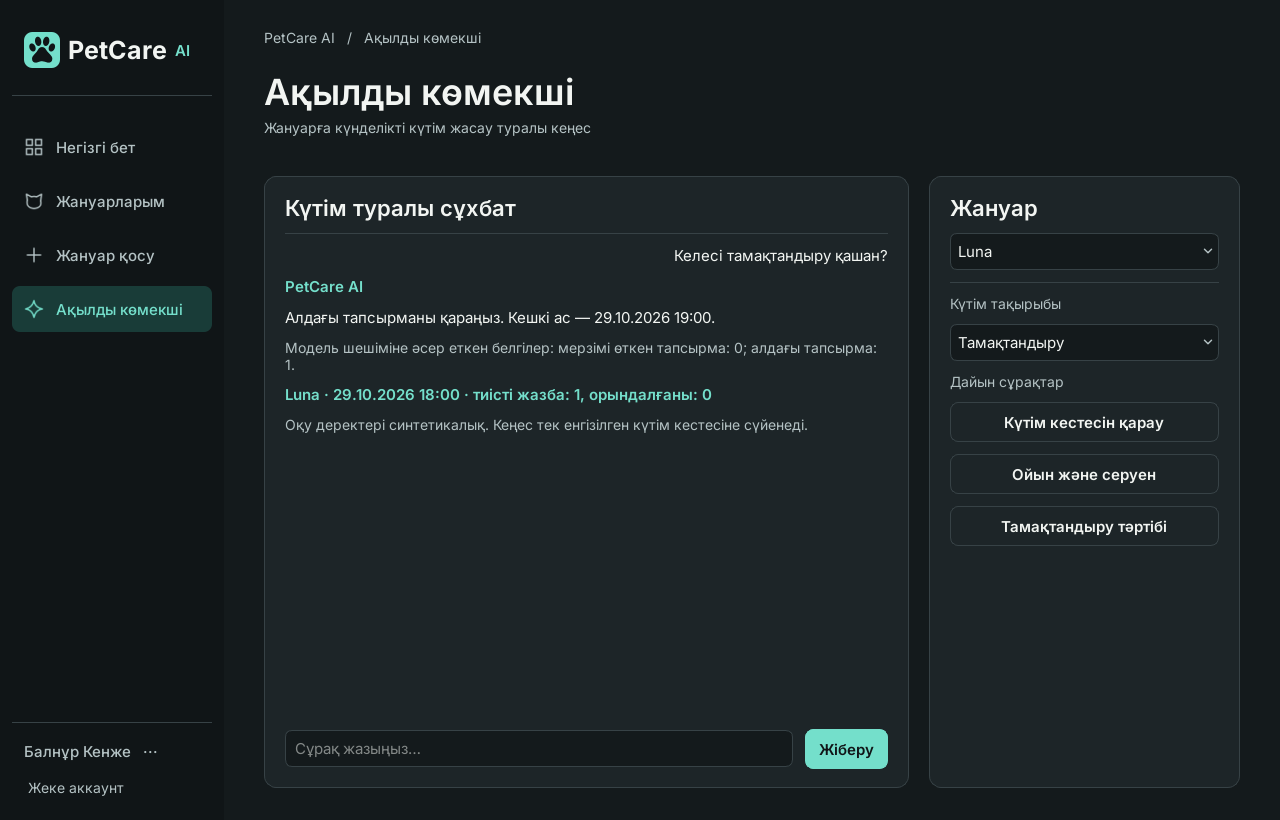
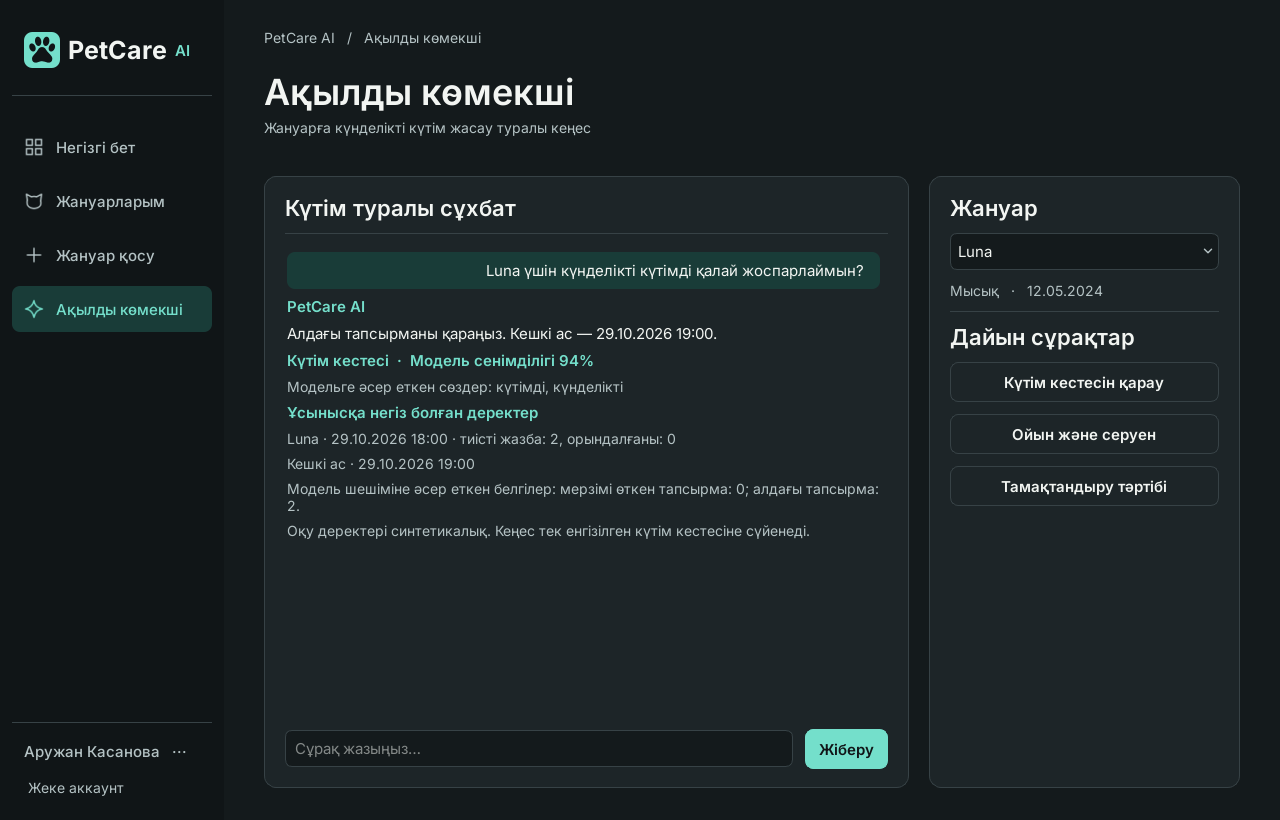
Show the five desktop screens and live two-model response

diff --git a/docs/README.md b/docs/README.md
@@ -1,1 +1,13 @@
-Screenshots of the running PySide6 desktop application at 1280 × 820: [Dashboard](home.png) and [Care adviser](adviser.png).
+# PetCare AI экрандары
+
+Суреттер Windows-тағы жұмыс істеп тұрған PySide6 қолданбасынан 1280 × 820 өлшемінде алынды.
+
+| Экран | Көрсетілетін әрекет |
+|---|---|
+| [Негізгі бет](home.png) | Күндік тапсырмаларды, күйін және жоспарланған күтімді қарау |
+| [Жануарларым](registry.png) | Жануарды іздеу, сүзу және таңдау |
+| [Жануар қосу](add.png) | Жаңа жануар туралы дерек енгізу |
+| [Жануарды өңдеу](edit.png) | Тіркелген жануардың карточкасын өзгерту |
+| [Ақылды көмекші](adviser.png) | Қазақша сұрақтың санатын және журналға сүйенген жауапты көру |
+
+Figma-дағы бағандар, Inter қарпі, қара табан логотипі және түстер сақталған. Кестеде нақты сүзгілер мен өңдеу батырмалары, формаларда күн мен санды енгізуге арналған Qt өрістері бар. Чат үлгі мәтіннің орнына екі модельдің нақты нәтижесін көрсетеді.
